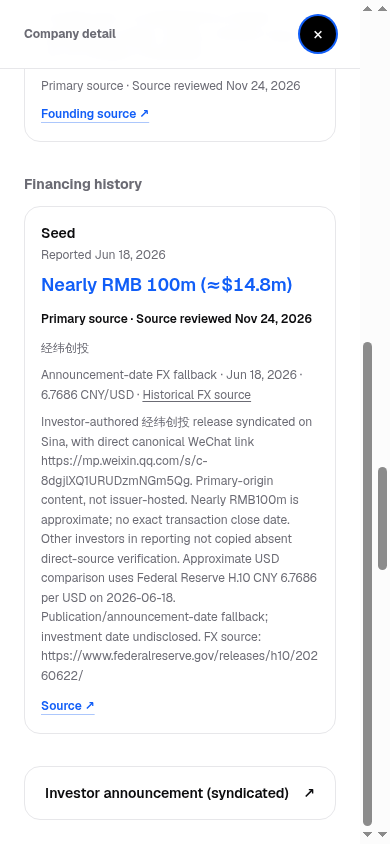
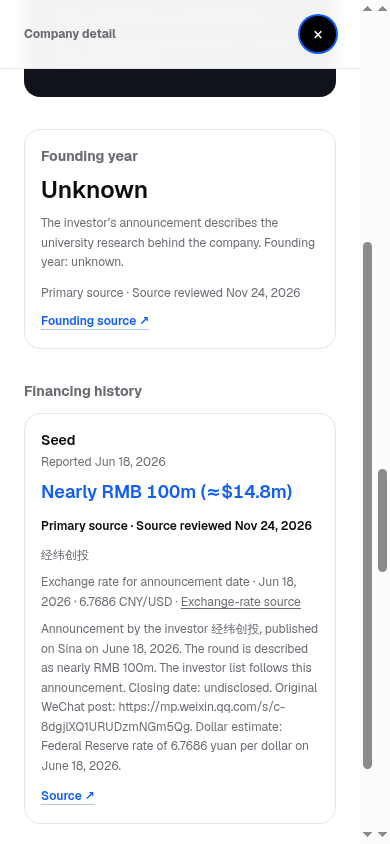
Refresh plain-language screenshots and verification records

diff --git a/docs/china-funding-20261124/README.md b/docs/china-funding-20261124/README.md
@@ -1,61 +1,63 @@
-# China BCI backfill — verification
+# China financing additions — verification
 
-## Revision and scope
+## Revisions and scope
 
-- Runtime/data/code reviewed and exercised: `204cfb81ff2ba00c6338fedaf405368669b4e388`.
-- Exact unchanged baseline: `023598e99d14b799b536df680e07f9d30e83b649`.
-- Six new companies and eleven additional financing records, synchronized across Funding Index and Milestones. The existing screen is unchanged; this is not a China market census.
-- [Admission, date, accounting, metadata and held-out notes](../../data/funding-index/source-review-20261124.md).
-- Evidence-only commits after the runtime revision do not change application/data/test inputs. No merge, production release, background sweep or new monitoring is included.
+- Original source/accounting and code review: `204cfb81ff2ba00c6338fedaf405368669b4e388`.
+- Plain-language revision: `703b72bc00d12aefb44aeb0347b4db4afee82300`.
+- Original baseline: `023598e99d14b799b536df680e07f9d30e83b649`.
+- Six new companies and eleven additional financing records. Each appears once in Funding Index and Milestones, giving 31 companies and 53 records under the existing selection criteria.
+- [Financing records, sources, dates and research limits](../../data/funding-index/source-review-20261124.md).
 
-## Checks actually completed
+## Language revision
 
-| Check | Result |
+The company details name who wrote each announcement and where it was published. For example: “Announcement by the investor 经纬创投, published on Sina on June 18, 2026.” Notes describe approximate amounts, agreement dates and unknown closing dates directly. Coverage explanations and exchange-rate labels use the same approach.
+
+A comparison against the original PR head confirms that amounts, dates, investors, currencies, rates, source URLs, selection criteria and calculated totals retain their original values. Changes cover explanatory text and source-link labels. The historical test fixture retains the same nine files and original baseline hashes.
+
+## Checks
+
+| Check | Language revision result |
 |---|---|
-| Original unchanged-base `npm test` | Exit 1: 1,633 tests; 1,597 pass; 36 fail; zero canceled/skipped |
-| Final pinned `npm test` | Exit 1: 1,651 tests; 1,615 pass; the same 36 fail; zero canceled/skipped |
-| Failure diagnostic comparison | No new failure IDs **and no changed actual error/assertion diagnostics** after removing timing and stack frames. This is not a green full suite. |
-| Focused current backfill, source-directory, exact-delta, roster, FX and mobile-note tests | 22/22 pass, exit 0 |
-| Production `npm run build` | Pass, exit 0 |
-| `npm run typecheck` | Pass, exit 0 |
-| Changed-code ESLint | Pass, exit 0 |
-| Independent direct-source/accounting review | PASS: all eleven accepted financing records and six new companies; actual direct issuer/investor/regulator/Federal Reserve bodies and exact prospectus pages; no material defect |
-| Independent code/report review | Initial CN-CODE-001 identified a worsened source catalog despite an unchanged failing test name; corrected and independently closed on exact revision `204cfb8` |
-| Exact historical fixture | Nine current files reconstruct actual pinned baseline bytes; old goldens were not refreshed; unrelated mutations still reach historical assertions |
-| Source inventory | Candidate and exact base have the same one missing source (`https://pmc.ncbi.nlm.nih.gov/articles/PMC1564115/`) and no extra entries. Dedicated regression passes; original test continues to expose that existing gap. |
-| Canonical/builder/generated/Milestones parity | Eleven financing records occur once each with identical native amounts, source/date semantics and source-bound historical FX; 31 companies / 53 financing records |
-| Native local production browser replay | Four desktop/mobile/theme cases pass; details for all six new companies plus Neuracle and Gestala verified against actual generated amounts and source links; stage view contains 31 companies |
+| Focused funding, source, historical-rate and language tests | 98/98 pass |
+| Full `npm test` | 1,652 tests; 1,616 pass; the same 36 pre-existing failures; zero canceled or skipped |
+| Failure comparison | The existing failure IDs and error/assertion diagnostics match the original baseline |
+| Production build, typecheck and changed-code lint | Pass |
+| Independent language and meaning review | Pass after four specific wording corrections |
+| Financial/source comparison | Amounts, dates, investors, currencies, rates, links and calculated totals match the original PR |
+| Desktop/mobile browser checks | Pass in both themes; refreshed screenshots show the reviewed text |
 
-### Exact focused command
+Detailed results: [`qa/language-test-comparison.json`](qa/language-test-comparison.json), [`qa/language-review.json`](qa/language-review.json), and [`qa/language-fidelity.json`](qa/language-fidelity.json).
 
-```sh
-node --import tsx --test \
-  tests/china-source-directory.test.mjs \
-  tests/china-funding-*.test.mjs \
-  tests/funding-roster-growth.test.mjs \
-  tests/historical-fx*.test.mjs \
-  tests/reviewed-delta.test.mjs
-```
+### Original review
 
-## Native evidence and limitations
+| Check | Recorded result |
+|---|---|
+| Original baseline `npm test` | 1,633 tests; 1,597 pass; 36 fail; zero canceled or skipped |
+| Original PR `npm test` | 1,651 tests; 1,615 pass; the same 36 fail; identical error/assertion diagnostics after removing timing and stack frames |
+| Independent source/accounting review | PASS for all eleven financing additions and six companies, including the Chinese company/investor/regulator sources, Federal Reserve releases and exact prospectus pages |
+| Independent code/report review | The source-directory finding CN-CODE-001 was corrected and independently closed at `204cfb8` |
+| Source directory | One pre-existing PMC URL omission remains visible in the original test. Additional entries: zero. |
+| Historical test reconstruction | All nine reviewed files reconstruct the original baseline bytes and expected hashes |
 
-The browser ran the actual production-built Next.js application bound only to loopback. Viewports were 1440×1000 and 390×844, each light/dark, using native Chrome pointer/keyboard input. This is **not** a hosted-preview walkthrough or a physical-phone touch test. `qa/browser-results.json` retains the exercised source revision, case assertions and screenshot hashes.
+The original full-suite comparison is retained in [`qa/test-comparison.json`](qa/test-comparison.json). Results of the language revision are recorded alongside it.
 
-The first native run exposed a long literal WeChat URL overflowing its financing-note card. A mounted RED regression preceded the one-class wrapping fix; the final actual 390px replay measured note `scrollWidth == clientWidth == 278`, dialog `scrollWidth == clientWidth == 360`, and inspected readable source/FX/approximate-amount text. The failed capture and earlier accepted replay remain private historical evidence, not relabeled as final success.
+## Browser checks and screenshots
 
-The funding timeline is intentionally horizontally scrollable inside its own container; the final page and detail-panel bounds do not overflow. Screenshots show real data, not mock values. All task-owned tabs were closed, pre-existing tabs preserved, the loopback runtime stopped and its port verified closed.
+The screenshots show the actual production-built application served locally, using Chrome pointer/keyboard input at 1440×1000 and 390×844 in both themes. These checks cover all six new company details, Neuracle and Gestala, displayed amounts and source links, company counts, and page/detail-panel widths. Physical-phone testing and a signed-in hosted interaction check remain separate verification tasks.
 
-### Representative captures
+The mobile financing note retains its full source text and original WeChat link. A wrapping rule keeps the long URL within the card; `qa/language-mobile-metrics.json` records the measured widths. The funding timeline scrolls horizontally inside its own container.
 
-- [Desktop, dark](qa/funding-dark-1440.png)
-- [Desktop, light](qa/funding-light-1440.png)
-- [Neuracle agreement/date evidence in detail](qa/detail-neuracle-technology-light-1440.png)
-- [Nanochap detail](qa/detail-nanochap-light-1440.png)
-- [Mobile unknown metadata](qa/detail-xinsheng-shijie-light-390.png)
-- [Mobile financing qualification and source-note wrapping](qa/detail-xinsheng-financing-light-390.png)
-- [Mobile stage view, light](qa/stage-light-390.png)
-- [Mobile stage view, dark](qa/stage-dark-390.png)
+- [Funding Index, desktop dark](qa/funding-dark-1440.png)
+- [Funding Index, desktop light](qa/funding-light-1440.png)
+- [Neuracle company details](qa/detail-neuracle-technology-light-1440.png)
+- [Nanochap company details](qa/detail-nanochap-light-1440.png)
+- [Xinsheng Shijie company details, mobile](qa/detail-xinsheng-shijie-light-390.png)
+- [Xinsheng Shijie financing source, amount and date, mobile](qa/detail-xinsheng-financing-light-390.png)
+- [Company stages, mobile light](qa/stage-light-390.png)
+- [Company stages, mobile dark](qa/stage-dark-390.png)
 
-## Scope limits that remain
+## Remaining research
 
-The financing dataset still has partial company histories and legacy unverified timing/FX estimates. Neuracle's old RMB60m investor-page record is not a verified March 2024 cash-flow date; no complete historical total is claimed. Conmind and Xinsheng disclosures are explicitly **nearly** amounts. Mindtrix's combined angel-series total and Ruiyi's individual investor subscription are held outside new round-size totals. Corporate fields not established by direct sources remain unknown. The 36 unrelated original test failures are neither hidden nor resolved by this PR.
+Company financing histories remain partial. Neuracle's earlier RMB 60m investor-page record still needs reconciliation to establish its underlying transaction date. Conmind and Xinsheng amounts retain “nearly.” Mindtrix's combined angel-round amount needs allocation by round and date; Ruiyi's investor contribution needs a verified full-round size. Company fields with unresolved sources stay marked unknown.
+
+The PR remains open for review. Production and existing recurring workflows retain their current state.
